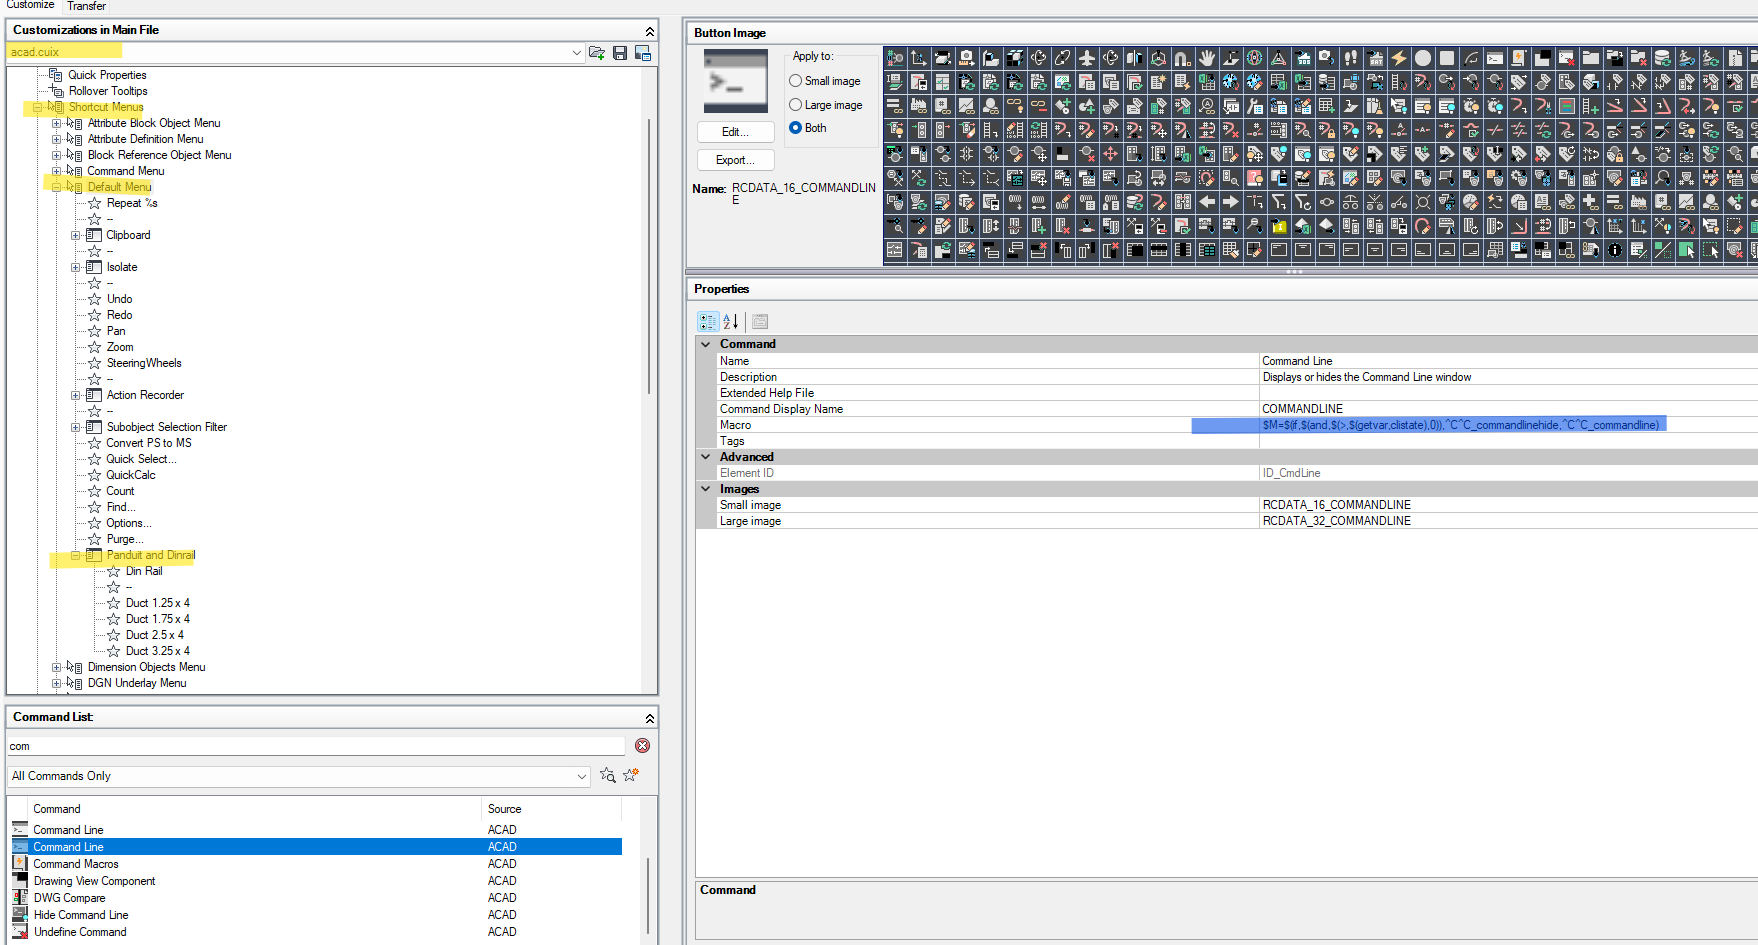
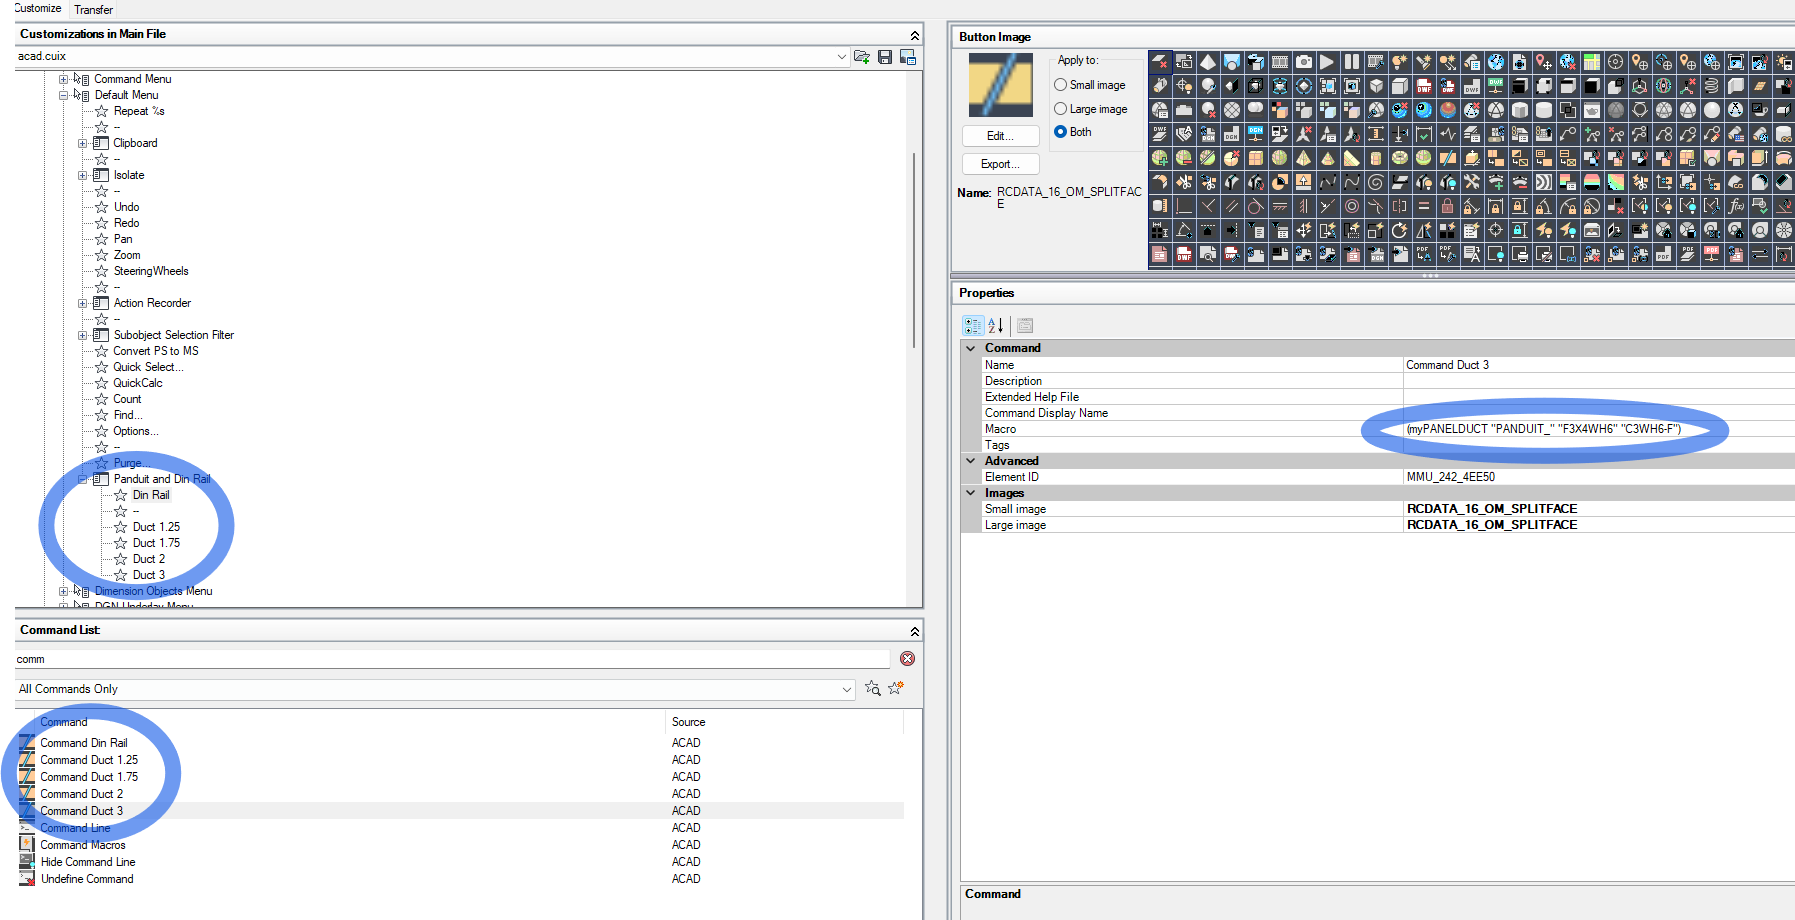
update read me

Changed region(s): [[0.0, 0.0, 1.0, 1.0]]

diff --git a/README.md b/README.md
@@ -26,8 +26,11 @@ This AutoLISP script automates the insertion of DIN rails in AutoCAD Electrical 
 - Create short cuts to use this new tool
     - run command CUI
     - Locatcate the Shortcut Menu you wish to add these fuction to. I suggest selecting the [Default Menu] under the [acad.cuix]
-    - Drag a Command Line object up from the list at the bottom {BLUE HIGHLIGHT} and edit the macro with the following. With parentesies and quotations
+    - In the Command List box search for com to reduce the list length
+    - right click in an open space and create n# of new commands
+    - Name Each Command and add the following. With parentesies and quotations, Optional Add a button image
     - (myPANELDUCT "MFG" "CAT" "ASSYCODE") 
+    - Drag Each New command to the Shortcut Menu you are modifing
     <img src = "Images/image-1.png">
 
 - Now you should be able to click anywhare on your sheet and add the componet. <img src = "Images/image.png">
